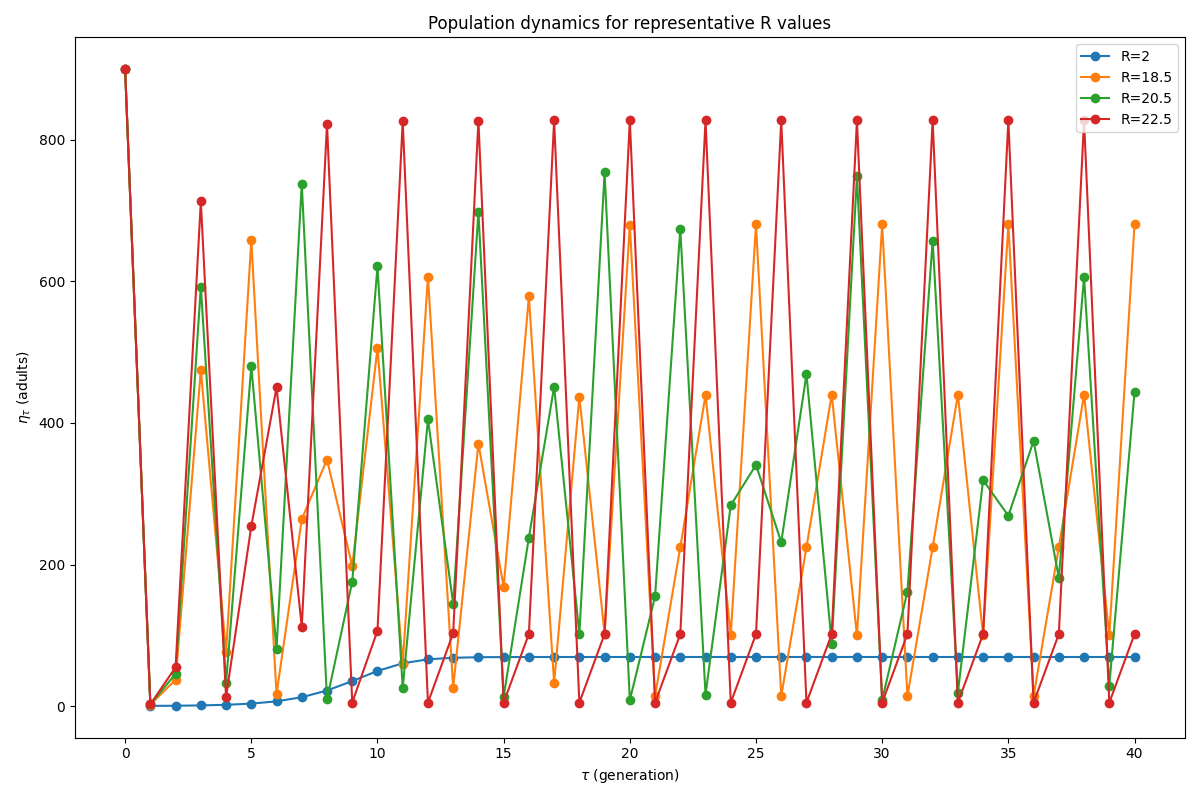
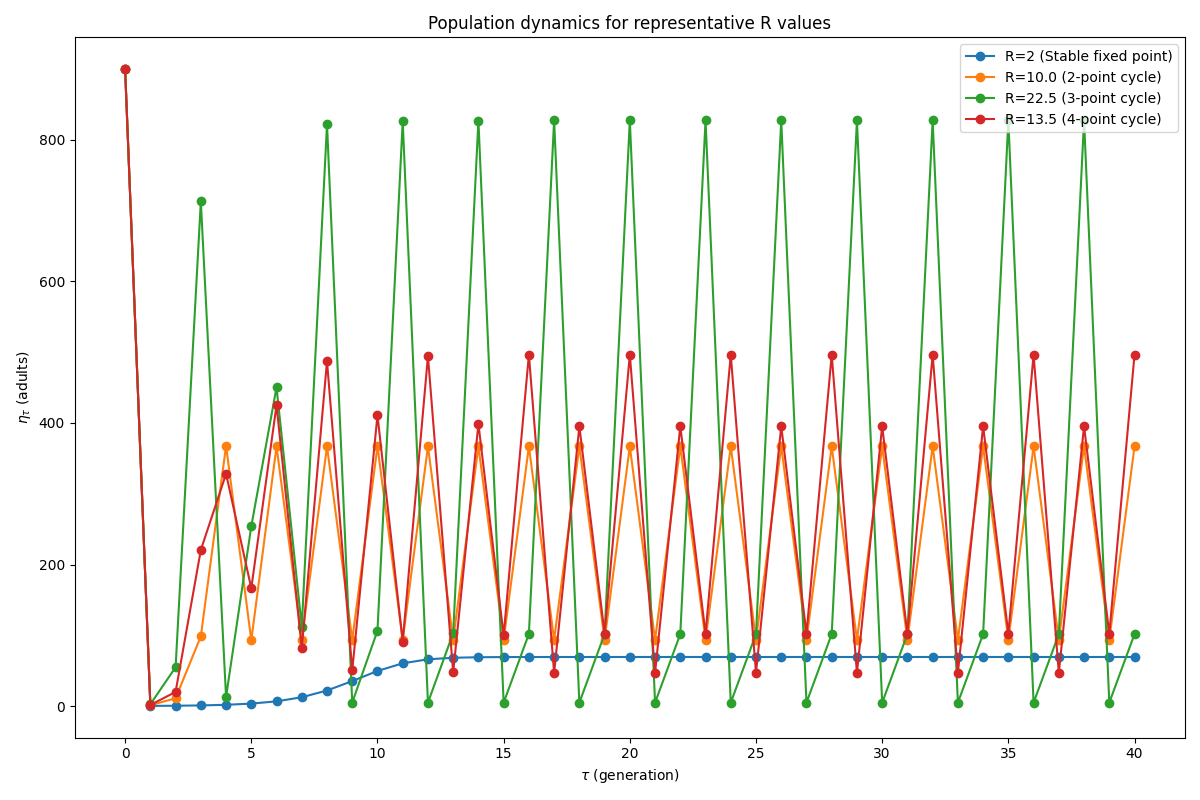
work

diff --git a/Computational-Biology/problem3.py b/Computational-Biology/problem3.py
@@ -26,7 +26,7 @@ for R in R_values:
 R_plot = np.repeat(R_values, last)
 eta_plot = np.concatenate(etas)
 
-plt.figure(figsize=(10, 6))
+plt.figure(figsize=(16, 6))
 plt.scatter(R_plot, eta_plot, s=2, color="k", alpha=0.5)
 plt.xlabel("R")
 plt.ylabel(r"$\eta$ (adults)")
@@ -36,8 +36,7 @@ plt.savefig("ricker_bifurcation.png")
 plt.show()
 
 # --- (b) Population dynamics for representative R values ---
-# Choose R values for: fixed point, 2-cycle, 3-cycle, 4-cycle
-R_reps = [2, 18.5, 20.5, 22.5]
+R_reps = [2, 10.0, 22.5, 13.5]
 labels = ["Stable fixed point", "2-point cycle", "3-point cycle", "4-point cycle"]
 plt.figure(figsize=(12, 8))
 for R, label in zip(R_reps, labels):
@@ -51,8 +50,20 @@ plt.tight_layout()
 plt.savefig("ricker_representative_dynamics.png")
 plt.show()
 
+
+def detect_cycle_length(eta, tol=1e-6):
+    unique_vals = np.unique(np.round(eta, decimals=6))
+    return len(unique_vals)
+
+
+for R in R_reps:
+    eta = ricker_map(R, alpha, eta0, generations)
+    cycle_length = detect_cycle_length(eta[-last:])
+    print(f"Cycle length for R={R}: {cycle_length}")
+
+
 # --- (d) Zoom in to estimate R_infty ---
-R_zoom = np.arange(22, 23, 0.001)
+R_zoom = np.arange(14.6, 15, 0.001)
 etas_zoom = []
 for R in R_zoom:
     eta = ricker_map(R, alpha, eta0, generations)
@@ -70,6 +81,27 @@ plt.tight_layout()
 plt.savefig("ricker_bifurcation_zoom.png")
 plt.show()
 
-# Estimate R_infty visually from the plot
-R_infty_est = 22.6
-print(f"Estimated R_infty (onset of chaos): {R_infty_est}")
+cycle_lengths = []
+
+for R in R_zoom:
+    eta = ricker_map(R, alpha, eta0, generations)
+    cycle_len = detect_cycle_length(eta[-last:])
+    cycle_lengths.append(cycle_len)
+
+# Plot cycle length vs R
+import matplotlib.pyplot as plt
+
+plt.figure(figsize=(10, 4))
+plt.plot(R_zoom, cycle_lengths, ".-")
+plt.xlabel("R")
+plt.ylabel("Number of unique points (cycle length)")
+plt.title("Numerical check for period-doubling and chaos")
+plt.tight_layout()
+plt.savefig("ricker_cycle_length_check.png")
+plt.show()
+
+# Print R values where cycle length jumps (indicative of bifurcations)
+for R, cl in zip(R_zoom, cycle_lengths):
+    if cl > 16:  # Arbitrary threshold for chaos
+        print(f"Possible onset of chaos at R ≈ {R:.3f} (cycle length: {cl})")
+        break
